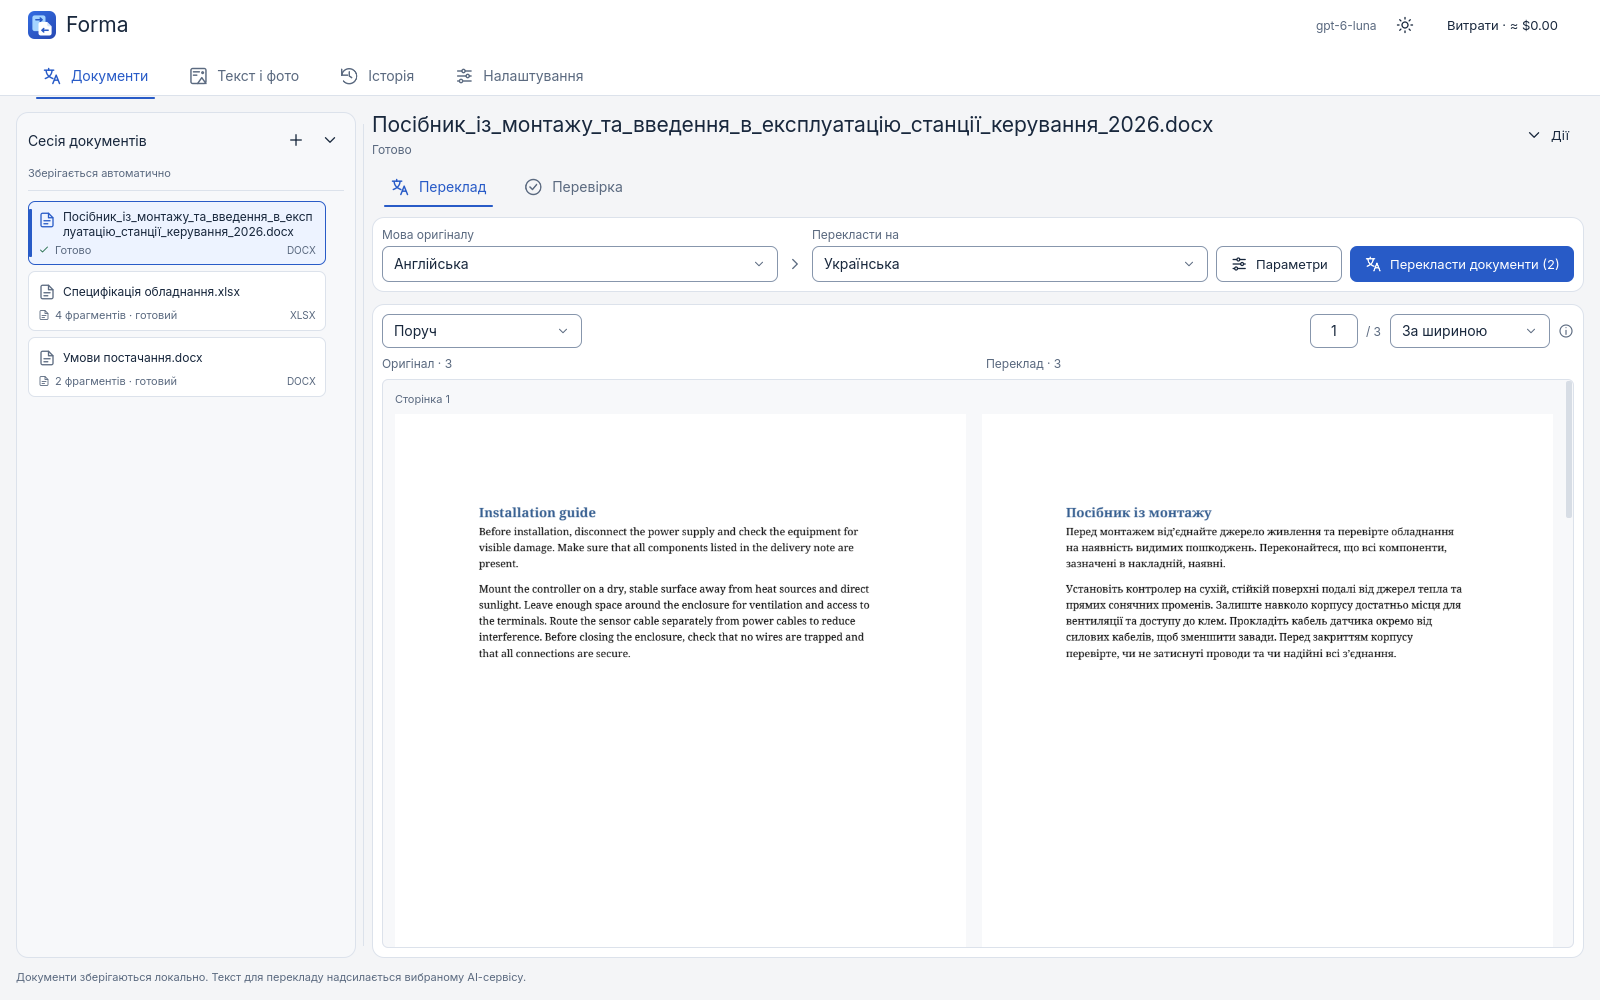
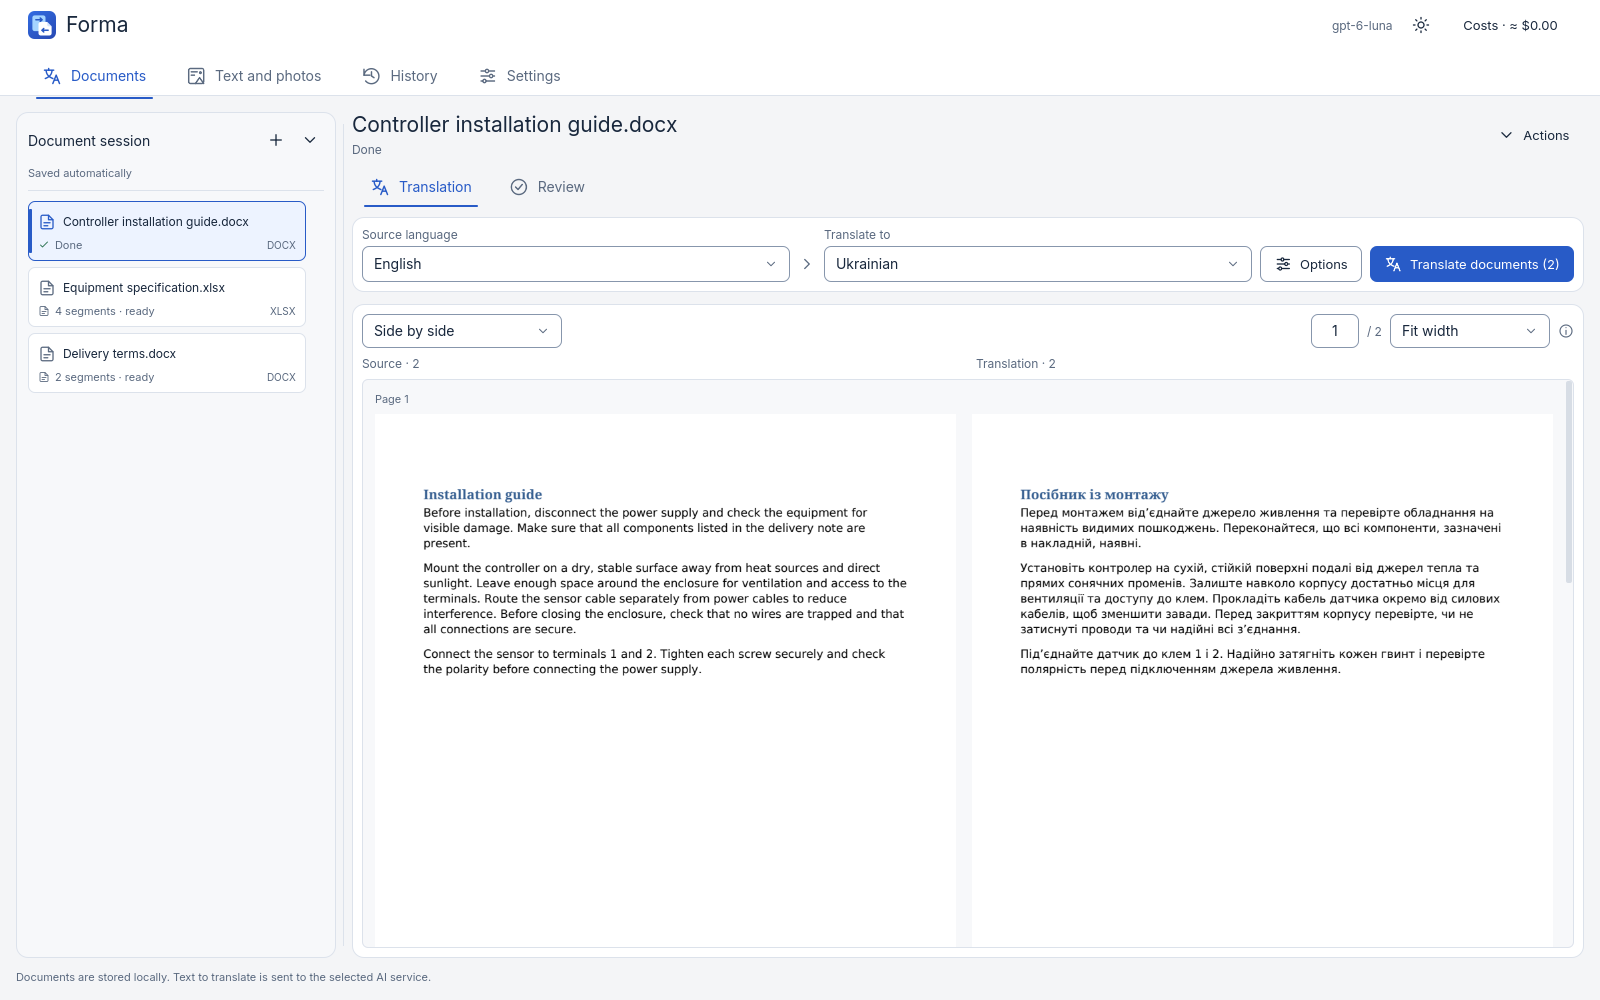
Release 0.15.0 with refreshed workspace screenshots

diff --git a/scripts/release_assets.py b/scripts/release_assets.py
@@ -127,7 +127,9 @@ def create_source_bundle(
                 "*-runtime-sources.zip into the same directory as the application\n"
                 "package when rebuilding or inspecting dependencies. This restores\n"
                 "the runtime-sources paths referenced by its included inventories.\n"
-                "Linux dependency sources and Qt/PySide archives are included too.\n"
+                "MANIFEST.json lists the components in this download. If the release\n"
+                "has multiple Sources ZIPs, download all of them for the complete\n"
+                "corresponding sources, including Linux dependencies and Qt/PySide.\n"
             ))
         if temporary.stat().st_size >= MAX_ASSET_BYTES:
             raise ValueError("Source bundle exceeds the release asset size limit")

diff --git a/scripts/build.py b/scripts/build.py
@@ -108,7 +108,7 @@ def prepare_release_materials(
         shutil.copy2(source, payload / name)
     public_docs = ["README.md", "CHANGELOG.md", "CONTRIBUTING.md", "CODE_OF_CONDUCT.md", "SECURITY.md", "LICENSE"]
     public_docs += [path.relative_to(root).as_posix() for path in (root / "docs").glob("*.md")]
-    public_docs += ["docs/interface.png", "docs/quick-translate.png"]
+    public_docs += ["docs/interface.png", "docs/review.png", "docs/quick-translate.png"]
     for name in public_docs:
         source = root / name
         if source.is_file():

diff --git a/src/forma/__init__.py b/src/forma/__init__.py
@@ -1,3 +1,3 @@
 """Forma document translation."""
 
-__version__ = "0.14.0"
+__version__ = "0.15.0"

diff --git a/README.md b/README.md
@@ -15,7 +15,9 @@ FormaTranslate is an open-source desktop translator for **Windows and Linux**, b
 
 The interface supports **English, Ukrainian, Polish, German, French and Spanish**, follows the system language, and can be changed in Settings. Appearance follows the system by default, with explicit Light and Dark choices available without restarting. The interface language and document translation languages are independent.
 
-![FormaTranslate document session and paired page preview with a synthetic example](docs/interface.png)
+![FormaTranslate document session with side-by-side original and translated DOCX pages](docs/interface.png)
+
+Screenshots use synthetic documents and manually entered English–Ukrainian translations.
 
 ## Download and start
 
@@ -31,9 +33,13 @@ Drag the sidebar divider to make room for long filenames. Compact document cards
 
 **Review** shows a continuous list of source/translation pairs. Select a fragment to edit it in place, search across the document, or filter to outstanding findings. Drafts, acknowledgements and corrected-copy export keep their existing validation; switching files remains locked while an edit is open.
 
+![Continuous review with an inline translation editor and surrounding source/translation pairs](docs/review.png)
+
+*Edit a fragment while keeping the surrounding source and translation visible.*
+
 Windows has one full application ZIP, with BabelDOC, the local OCR worker, four OCR language-model sets and Tesseract included in its folders. Extract them together with the application; they are ready to load in place. An installed ABBYY can still be selected in OCR settings; [ABBYY setup](docs/ABBYY.md) explains the supported workflows.
 
-Release descriptions provide direct platform download links. A single **Sources** archive contains the developer and dependency source materials.
+Release descriptions provide direct platform download links. The **Sources** archives contain the developer and dependency source materials; they are not required to run the application.
 
 DOCX and XLSX work directly. **Direct PDF translation uses BabelDOC; scanned PDF preparation uses the local OCR helper**. Complete Windows builds include both engines and their local assets; Linux and source installations use separate workers. See [PDF setup](docs/PDF.md) and [complete Windows builds](docs/WINDOWS-RUNTIME.md). Some OpenAI-compatible providers omit features used by particular API modes; choose the mode and response format supported by yours.
 

diff --git a/docs/RELEASING.md b/docs/RELEASING.md
@@ -25,6 +25,8 @@ Keep the visible release assets small in number: one full Windows application ZI
 
 Use `scripts/release_assets.py create --output dist/Sources-VERSION.zip --version VERSION --inventory PATH_TO_ASSET_HASHES.json ORIGINAL_SOURCE_ARCHIVES...`. The input inventory has an `assets` list with each original `name` and `sha256`. The command verifies every original archive and atomically publishes a bundle below 2 GiB. `scripts/release_assets.py verify dist/Sources-VERSION.zip` checks its complete inventory and original archive bytes again.
 
+When the complete source set exceeds the 2 GiB per-asset limit, keep the primary `Sources-VERSION.zip` and place a large component in an additional clearly named source bundle. Version 0.15.0 uses `Sources-QtPDF-VERSION.zip` for the exact Qt WebEngine source archive that provides Qt PDF/PDFium. Each bundle retains its own manifest and the original archive bytes. Verify that their combined inventories cover every required source archive exactly once, include both bundles in `SHA256SUMS`, and link both in the release notes. Application downloads remain one Windows ZIP and one Linux ZIP.
+
 Upload the consolidated source bundle, verify its server SHA256 and public download link, and only then remove the redundant individual source assets from an existing release. Keep binary packages byte-identical when simplifying an already published release. Update `SHA256SUMS` for the resulting application/source downloads and verify all published links and hashes. Never remove access to corresponding source materials before their replacement is publicly available.
 
 The public repository starts with a sanitized snapshot. Private pre-publication experiment history is intentionally absent. Never merge or mirror a private history into the public repository. Continue public changes from the public `main` history; apply reviewed changes explicitly when maintaining a separate private checkout.

diff --git a/CHANGELOG.md b/CHANGELOG.md
@@ -2,7 +2,7 @@
 
 Versions follow semantic versioning. Changes before 1.0 may evolve as document compatibility improves.
 
-## Unreleased
+## 0.15.0 — 2026-11-16
 
 - Rebuild Documents and Review around one automatically saved session with a shared, persistent document sidebar. Restore the selected document, translation options and each report's fragment, search and filter across navigation and restarts.
 - Move translation options into one dialog and document/queue operations into contextual menus. Keep the translation action with the top language controls and give the document preview the remaining height.
